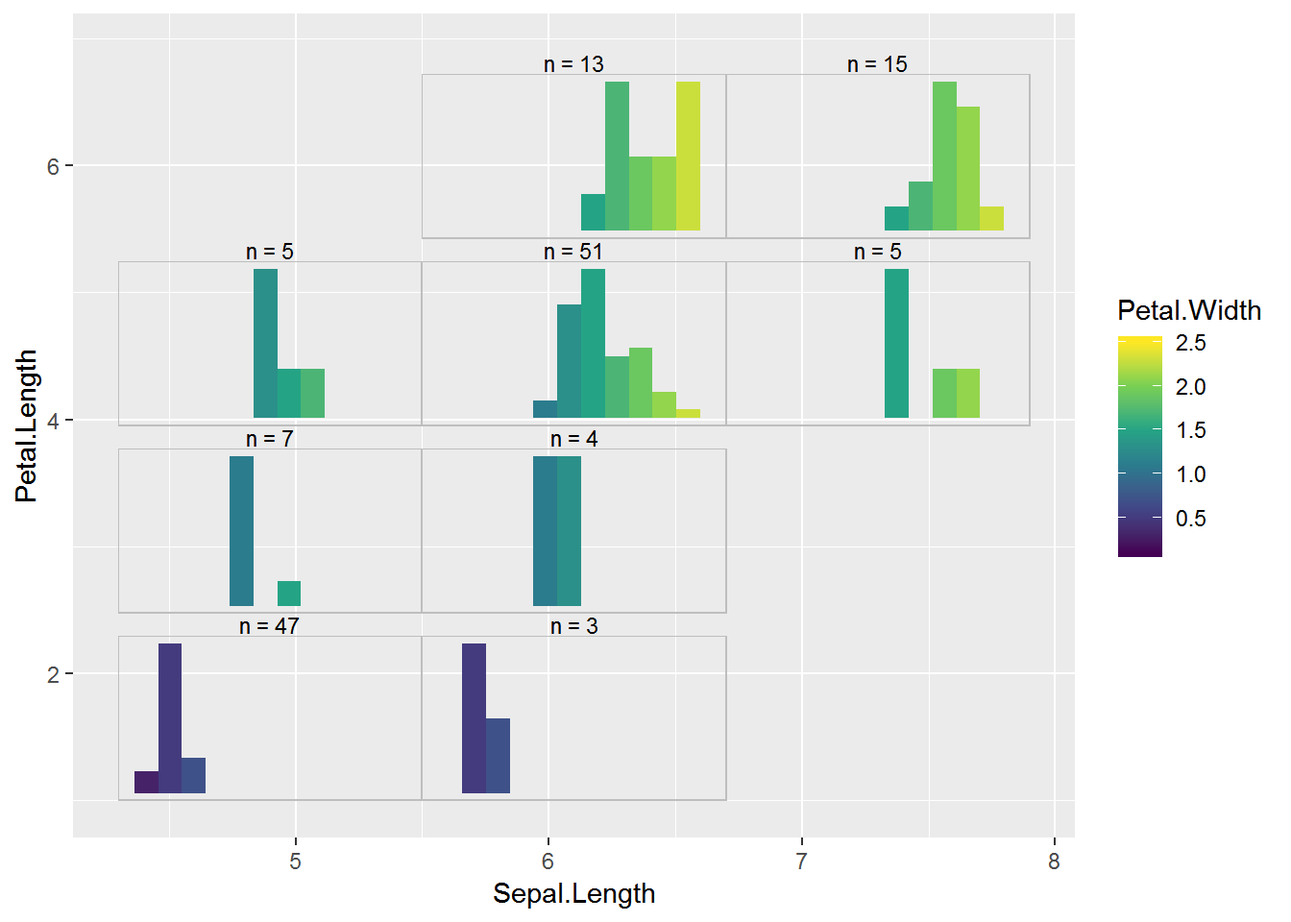
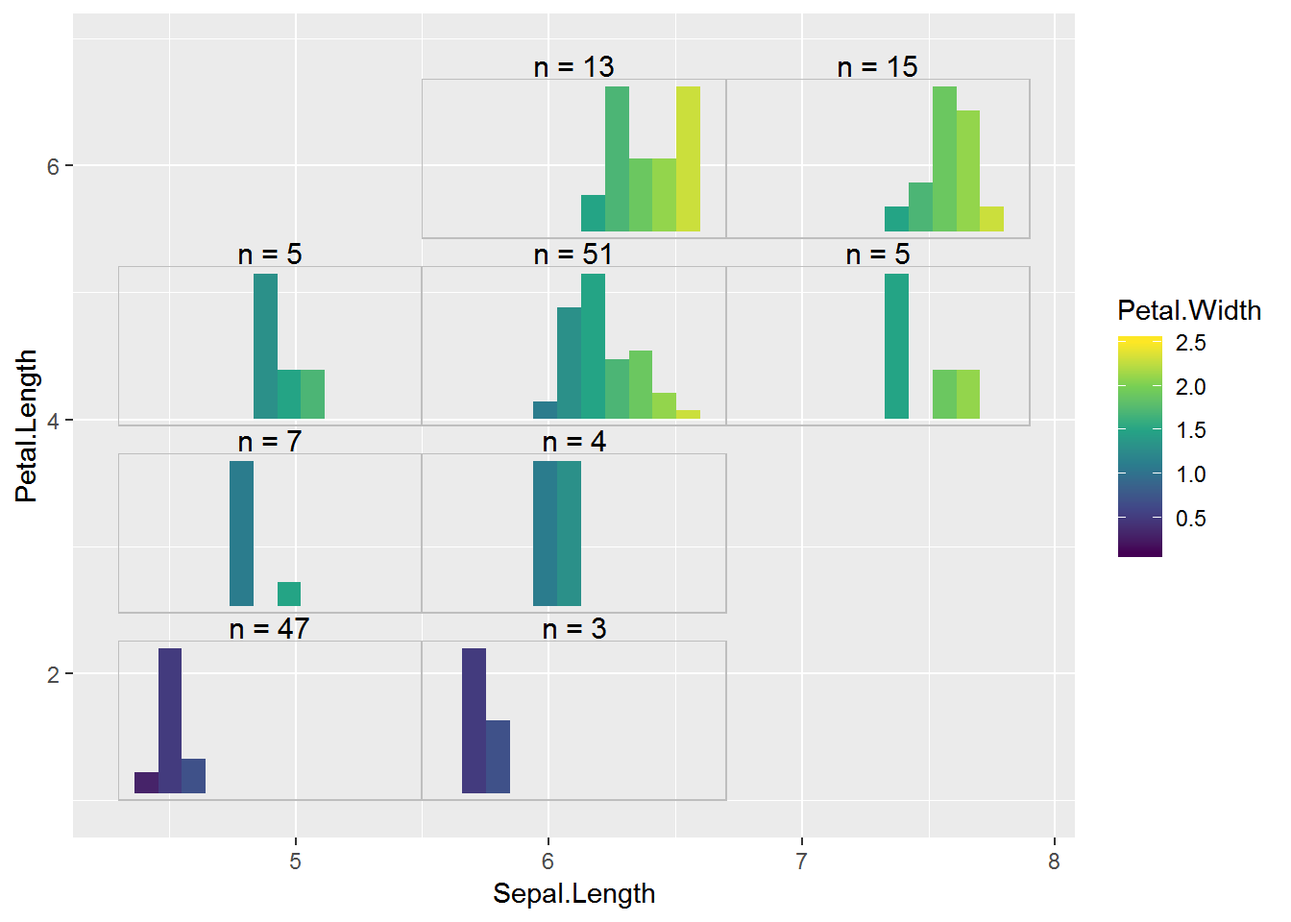
Second draft embedded plots

diff --git a/content/post/2019-04-22-embedding-subplots.html b/content/post/2019-04-22-embedding-subplots.html
@@ -9,20 +9,20 @@ tags:
   - ggplot2
   - purrr
 draft: TRUE
-description: "I was first exposed to the idea of embedding small subplots into a larger plot in package ggsubplot, which is no longer maintained.  Embedding subplots is still possible in ggplot2 via function annotation_custom(), and many subplots can be made and added to a plot via loops.  I demonstrate one approach to this here."
+description: "When I first learned about embedding many small subplots into a larger plot as a way to visualize large datasets it could be done in ggplot2 via package ggsubplot.  Embedding subplots is still possible with the annotation_custom() function.  Many subplots can be made and then added to a plot via loops.  I demonstrate one approach to do this."
 ---
 
 
 
-<p>This quarter I’m doing a small reading and conference discussion group with graduate students on data visualization, partially based on the two recent data visualization books written by <a href="https://kieranhealy.org/publications/dataviz/">Kieran Healy</a> and <a href="https://serialmentor.com/dataviz/">Claus Wilke</a>. The ultimate goal is to have each student work on a graphic with their own data. During discussions on what sort of plot to make, one student brought up the idea of embedded plots for visualizing complex data.</p>
-<p>I first saw embedded graphics in package <strong>ggsubplot</strong>. It turns out the student had seen <a href="https://blog.revolutionanalytics.com/2012/09/visualize-complex-data-with-subplots.html">an old post</a> about that package and about embedded graphics and was interested to try it on her fairly large dataset. However, <strong>ggsubplot</strong> is no longer maintained and doesn’t work with current versions of <strong>ggplot2</strong>.</p>
-<p>Below is an example of an embedded plot of the <code>diamonds</code> dataset from that blog post. You can see there are small subplots showing summarized data placed within the larger plot. This can be useful for large datasets and it can look pretty neat on maps.</p>
+<p>This quarter I’m doing a small reading and conference discussion group on data visualization with graduate students, partially based on the two recent data visualization books written by <a href="https://kieranhealy.org/publications/dataviz/">Kieran Healy</a> and <a href="https://serialmentor.com/dataviz/">Claus Wilke</a>. The ultimate goal is to have each student work on a graphic with their own data.</p>
+<p>During discussions on what sort of graphic each student should make, the idea of embedded plots for visualizing a large dataset that has a problem with overplotting came up. I first learned about embedded graphics from package <strong>ggsubplot</strong>. You can still see <a href="https://blog.revolutionanalytics.com/2012/09/visualize-complex-data-with-subplots.html">an old post</a> about that package and about embedded graphics in general. However, <strong>ggsubplot</strong> is no longer maintained and doesn’t work with current versions of <strong>ggplot2</strong>.</p>
+<p>Below is an example of an embedded plot of the <code>diamonds</code> dataset from that blog post. You can see there are small subplots showing summarized data placed within the larger plot. This can be useful to show patterns in for large datasets like <code>diamonds</code>. Embedded plots can also work well on maps.</p>
 <p><img src="https://revolution-computing.typepad.com/.a/6a010534b1db25970b0177448319ad970d-800wi" /><!-- --></p>
 <p>I poked around a bit, and found that <code>annotation_custom()</code> is the go-to function for embedding plots in a <strong>ggplot2</strong> graphic these days. Since embedded plots like the one above involve making and adding many subplots, generally we’ll need some sort of looping to be efficient. I found a couple of recent examples for how to tackle these plots on Stack Overflow <a href="https://stackoverflow.com/a/44125392/2461552">here</a> and <a href="https://stackoverflow.com/a/45417727/2461552">here</a>.</p>
-<p>I’m going to work through an example of embedding subplots using the same sort of approach outlined in those answers.</p>
+<p>I’m going to work through an example of embedding subplots using the same kind of approach outlined in those answers.</p>
 <div id="r-packages" class="section level1">
 <h1>R packages</h1>
-<p>First I’ll load the R packages I’m using today. All plotting is done via <strong>ggplot2</strong>, I do data manipulation with <strong>dplyr</strong> and <strong>tidyr</strong>, and <strong>purrr</strong> is for looping to make the subplots and then get them into separate <code>annotation_custom()</code> layers.</p>
+<p>First I’ll load the R packages I’m using today. All plotting is done via <strong>ggplot2</strong>, I do data manipulation with <strong>dplyr</strong> and <strong>tidyr</strong>, and <strong>purrr</strong> is both for looping to make the subplots and for getting the subplots into <code>annotation_custom()</code> layers.</p>
 <pre class="r"><code>library(ggplot2) # 3.1.1
 suppressPackageStartupMessages( library(dplyr) ) # 0.8.0.1
 library(tidyr) # 0.8.3
@@ -30,11 +30,11 @@ library(purrr) # 0.3.2</code></pre>
 </div>
 <div id="cutting-continuous-variables-into-evenly-spaced-categories" class="section level1">
 <h1>Cutting continuous variables into evenly-spaced categories</h1>
-<p>An additional complication that I didn’t see covered in the Stack Overflow answers was how to approach for cutting up the two continuous variables on the axis of the large plot into categories prior to making the subplots.</p>
-<p>That’s the first thing I wanted to grapple with. I played with various ways to get evenly sized subplots. While I thought it might be nice to have plots placed at “even” points on the axis, in the end I gave that up and decided to cut up the continuous variable into groups of even lengths.</p>
-<p>This is a job for <code>cut()</code>. Rather than using <code>cut()</code> directly I made a function built around <code>cut()</code>. The main reason for this is because I’m going to eventually need the minimum and maximum value of each group in order to place the subplots along the axes of the larger plot. This information can be pulled from the labels, but I didn’t like how <code>cut()</code> rounded the values.</p>
-<p>My function <code>cuteven()</code>, takes a continuous variable and returns a variable cut into <code>ngroups</code> groups. The labels of this categorized variable are the (unrounded) minimum and maximum value of the group, separated by commas.</p>
-<p>The <code>include.lowest</code> argument in <code>cut()</code> is to make sure the minimum value in the dataset is included in the first group.</p>
+<p>Binning the continuous variables on the axis of the larger plot to make the subplots is an additional complication that I didn’t see covered in those Stack Overflow answers. That’s the first thing I wanted to grapple with.</p>
+<p>I thought it made the most sense to have all the subplots be the same size and so wanted evenly sized <em>bins</em> or groups. The range of values for of each bin for a particular variable can be based on the total range of the variable and the desired number of groups.</p>
+<p>Binning into even-length groups is a job for <code>cut()</code>. Since I’m going to need the minimum and maximum value of each group to place the subplots along the axes of the larger plot, rather than using <code>cut()</code> directly I made a function built it. While information on the range encompassed by a group can be pulled from the default <code>cut()</code> bin labels, I didn’t like how <code>cut()</code> rounded those values.</p>
+<p>My function <code>cuteven()</code>, takes a continuous variable and returns a variable cut into <code>ngroups</code> bins. The labels of the resulting groups are the unrounded minimum and maximum value of each one, with the values separated by commas.</p>
+<p>I use <code>include.lowest = TRUE</code> in <code>cut()</code> is to make sure the minimum value in the dataset is included in the first group.</p>
 <pre class="r"><code>cuteven = function(variable, ngroups) {
      seq_all = seq(min(variable), max(variable), length.out = ngroups + 1)
      cut(variable,
@@ -42,7 +42,7 @@ library(purrr) # 0.3.2</code></pre>
          labels = paste(seq_all[-(ngroups + 1)], seq_all[-1], sep = &quot;,&quot;),
          include.lowest = TRUE)
 }</code></pre>
-<p>Let’s test the function by cutting <code>Sepal.Length</code> from the <code>iris</code> dataset into 3 groups.</p>
+<p>Let’s test the function by cutting <code>Sepal.Length</code> from the <code>iris</code> dataset into 3 groups. The new, categorical variable has three categories, labeled with the minimum and maximum values in each.</p>
 <pre class="r"><code>with(iris, cuteven(Sepal.Length, ngroups = 3) )</code></pre>
 <pre><code>#   [1] 4.3,5.5 4.3,5.5 4.3,5.5 4.3,5.5 4.3,5.5 4.3,5.5 4.3,5.5 4.3,5.5
 #   [9] 4.3,5.5 4.3,5.5 4.3,5.5 4.3,5.5 4.3,5.5 4.3,5.5 5.5,6.7 5.5,6.7
@@ -65,11 +65,11 @@ library(purrr) # 0.3.2</code></pre>
 # [145] 5.5,6.7 5.5,6.7 5.5,6.7 5.5,6.7 5.5,6.7 5.5,6.7
 # Levels: 4.3,5.5 5.5,6.7 6.7,7.9</code></pre>
 </div>
-<div id="categorizing-the-axis-labels" class="section level1">
-<h1>Categorizing the axis labels</h1>
-<p>While these embedded plots can be useful for large datasets, I’m going demonstrate the process with a relatively small dataset so I can focus on the concepts.</p>
-<p>I will embed subplots on a larger plot based on the <code>iris</code> data, showing <code>Sepal.Length</code> on the x axis and <code>Petal.Length</code> on the y axis. My first step is to categorize those variables. I’m going to make three groups for <code>Sepal.Length</code> and four groups for <code>Petal.Length</code>.</p>
-<p>I cut both variables within <code>mutate()</code> and add them to <code>iris</code>. I give them generic names that indicate which variable is <code>x</code> and which is <code>y</code>.</p>
+<div id="categorizing-the-axis-variables" class="section level1">
+<h1>Categorizing the axis variables</h1>
+<p>While these embedded plots can be useful for large datasets, I’m going demonstrate the process with a relatively small dataset.</p>
+<p>I will embed subplots on a larger plot based on the <code>iris</code> data, showing <code>Sepal.Length</code> on the x axis and <code>Petal.Length</code> on the y axis. My first step is to categorize those variables with <code>cuteven()</code>. I’m going to make three groups for <code>Sepal.Length</code> and four groups for <code>Petal.Length</code>.</p>
+<p>I cut both variables within <code>mutate()</code> and add them to <code>iris</code>. I give the new variables generic names that indicate which variable is <code>x</code> and which is <code>y</code>.</p>
 <pre class="r"><code>iris = mutate(iris,
                 group_x = cuteven(Sepal.Length, 3),
                 group_y = cuteven(Petal.Length, 4) )
@@ -87,9 +87,10 @@ glimpse(iris)</code></pre>
 </div>
 <div id="extracting-the-coordinates-for-each-subplot" class="section level1">
 <h1>Extracting the coordinates for each subplot</h1>
-<p>We’ll need the minimum and maximum value for group for each axis variable to place the subplot in the larger plot in <code>annotation_custom()</code>. Since the labels of the new variables contain this info separated by a comma, we can use <code>separate()</code> to extract this info into columns.</p>
-<p>Since I have two group variables, one for each axis, I end up using <code>separate()</code> twice. I again make the names of the new columns in <code>into</code> based on which axis the value refers to.</p>
-<p>Since these coordinates are for numeric axes I use <code>convert = TRUE</code> to convert the values to numbers from categories.</p>
+<p>We’ll need the minimum and maximum value per group for each axis variable in order to place the subplot in the larger plot with <code>annotation_custom()</code>. Since the labels of the new variables contain this info separated by a comma, we can use <code>separate()</code> to extract the coordinate information from the labels into separate columns.</p>
+<p>Since I have two group variables, one for each axis, I end up using <code>separate()</code> twice. I again make the names of the new columns in <code>into</code> based on which axis I’ll be plotting that variable on.</p>
+<p>Since these coordinates are for numeric axes I use <code>convert = TRUE</code> to convert the values from categorical to numerical.</p>
+<p>When this step is complete we’ll have coordinates to indicate where each corner of a subplot will be placed within the larger plot. Unique combinations of the four variables define each group we want to make a subplot for.</p>
 <pre class="r"><code>iris = iris %&gt;%
      separate(group_x, into = c(&quot;min_x&quot;, &quot;max_x&quot;), 
               sep = &quot;,&quot;, convert = TRUE) %&gt;%
@@ -111,9 +112,10 @@ glimpse(iris)</code></pre>
 </div>
 <div id="bar-plot-subplots" class="section level1">
 <h1>Bar plot subplots</h1>
-<p>Before I go any further I’m going to figure out what I want my subplots to look like. I’m going to start with subplots as bar plots to count up the number of each species.</p>
-<p>It is useful to make a function for making the plots. Before I do that, I always work out what I want the plot to look like on a single subset of the data. While you can’t see it here, this is an iterative process and I often have to come back and tweak things once I’ve made the plots and embedded them.</p>
-<p>I want all the plots to have the same x and y axes. Since the y axis is counts, I need to calculate the maximum number of species across each subplot x/y group for setting the y axis limits.</p>
+<p>Next I’m going to figure out what I want my subplots to look like. I’m going to start with bar plots to count up the number of each species in each group.</p>
+<p>Since I will be making many plots with the same look I’ll create a function for the task. I like to work out what I want the plot to look like on a single subset of the data before making the function While you can’t see it here, this is an iterative process. I often have to come back and tweak the plot once I’ve made test subplots and embedded them.</p>
+<p>In this case, I want all the plots to have the same x and y axes. Since the y axis is counts, I need to calculate the maximum number of species across groups so I can set the y axis limits.</p>
+<p>The maximum count is <code>47</code>, so that will be my upper axis limit. Bar plots always start at 0.</p>
 <pre class="r"><code>iris %&gt;%
      group_by(min_x, max_x, min_y, max_y, Species) %&gt;%
      count() %&gt;%
@@ -124,9 +126,10 @@ glimpse(iris)</code></pre>
 #   &lt;dbl&gt; &lt;dbl&gt; &lt;dbl&gt; &lt;dbl&gt; &lt;fct&gt;   &lt;int&gt;
 # 1   4.3   5.5     1  2.48 setosa     47</code></pre>
 <p>In case a species is missing from one of the subplot groups I’ll define the <code>limits</code> for the x axis in <code>scale_x_discrete()</code>. This forces each plot to have the same x axis breaks.</p>
-<p>I’ll be removing all axis labels, etc., via <code>theme_void()</code> so that the subplots fit nicely into the larger plot, but keep the outline around the plot.</p>
-<p>I use <code>fill</code> to color the bars by species and will add a legend to the final plot since there are no x axis labels on the subplot. I set explicit colors in <code>scale_fill_manual()</code> (colors taken <a href="http://colorspace.r-forge.r-project.org/articles/hcl_palettes.html#qualitative-palettes">from here</a>). I suppress the legend in the subplots, though.</p>
-<p>Here is my test plot.</p>
+<p>I’ll be removing all axis labels, etc., via <code>theme_void()</code> so that the subplots fit nicely into the larger plot. I will add an outline around the plot, though.</p>
+<p>I use <code>fill</code> to color the bars by species and will add a legend to the large plot since there are no x axis labels on the subplot. I suppress the legend in the subplots.</p>
+<p>I set explicit colors in <code>scale_fill_manual()</code> (colors taken <a href="http://colorspace.r-forge.r-project.org/articles/hcl_palettes.html#qualitative-palettes">from here</a>) so all the plots will have the same color scheme.</p>
+<p>Here is my test plot for one group. This particular group only has one species in it.</p>
 <pre class="r"><code>ggplot(data = filter(iris, max_x &lt;= 5.5, max_y &lt;= 2.475), 
        aes(x = Species, fill = Species) ) +
      geom_bar() +
@@ -140,7 +143,8 @@ glimpse(iris)</code></pre>
                                        fill = &quot;transparent&quot;) ) +
      ylim(0, 47)</code></pre>
 <p><img src="/post/2019-04-22-embedding-subplots_files/figure-html/unnamed-chunk-8-1.png" width="672" /></p>
-<p>Once I have the plot worked out I can make a function so I can loop through all the data subsets and make a plot for each one. In this case the function takes a dataset, since I’m hard-coding in the axis variables, etc.</p>
+<p>Once I have the plot worked out for one group I put the code into a function. Here I name the function <code>barfun</code>. In this case the function takes only a dataset, since I’m hard-coding in all the axis variables.</p>
+<p>This function will allow me to loop through all the data subsets and make a bar plot for each one.</p>
 <pre class="r"><code>barfun = function(data) {
      ggplot(data = data, 
             aes(x = Species, fill = Species) ) +
@@ -155,15 +159,16 @@ glimpse(iris)</code></pre>
                                             fill = &quot;transparent&quot;) ) +
           ylim(0, 47) 
 }</code></pre>
-<p>Does this make the same plot I made manually? Yep. 👍</p>
+<p>Does this function make the same plot I made manually? Yep. 👍</p>
 <pre class="r"><code>barfun(data = filter(iris, max_x &lt;= 5.5, max_y &lt;= 2.475) )</code></pre>
 <p><img src="/post/2019-04-22-embedding-subplots_files/figure-html/unnamed-chunk-10-1.png" width="672" /></p>
 </div>
 <div id="make-the-subplots" class="section level1">
 <h1>Make the subplots</h1>
 <p>Now I’m ready to make the subplots! 😆.</p>
-<p>This involves looping through each subset of data and making the plot. Since I’m going to need those coordinates for subplot placement later I decided that the most straightforward way to do this is to group by the unique combinations of coordinates and then <em>nest</em> the dataset. When nesting, the dataset to be plotted is put in a column called <code>data</code>.</p>
-<p>I loop through each dataset in <code>data</code> with <code>map()</code> in <code>mutate()</code> and make a new list column of plots called <code>subplots</code>.</p>
+<p>I’ll loop through each subset of data and plot it with my function.</p>
+<p>Since I’m going to need those coordinates for subplot placement later I decided that the most straightforward way to do this is to group by the unique combinations of coordinates and then <em>nest</em> the dataset. When nesting, the dataset that contains the data to be plotted is placed in a column called <code>data</code>.</p>
+<p>I loop through each dataset in <code>data</code> with <code>map()</code> within <code>mutate()</code>. The new column containing the plots is named <code>subplots</code>.</p>
 <pre class="r"><code>allplots = iris %&gt;%
      group_by_at( vars( matches(&quot;min|max&quot;) ) ) %&gt;%
      group_nest() %&gt;%
@@ -182,26 +187,26 @@ allplots</code></pre>
 # 7   5.5   6.7  5.42  6.9  &lt;tibble [13 x 5]&gt; &lt;S3: gg&gt;
 # 8   6.7   7.9  3.95  5.42 &lt;tibble [5 x 5]&gt;  &lt;S3: gg&gt;
 # 9   6.7   7.9  5.42  6.9  &lt;tibble [15 x 5]&gt; &lt;S3: gg&gt;</code></pre>
-<p>Here’s a couple of the plots. The first one should look fairly familiar</p>
+<p>Here’s a couple of the plots. The first one should look fairly familiar.</p>
 <pre class="r"><code>allplots$subplots[[1]]</code></pre>
 <p><img src="/post/2019-04-22-embedding-subplots_files/figure-html/unnamed-chunk-12-1.png" width="672" /></p>
 <pre class="r"><code>allplots$subplots[[6]]</code></pre>
 <p><img src="/post/2019-04-22-embedding-subplots_files/figure-html/unnamed-chunk-12-2.png" width="672" /></p>
 </div>
-<div id="putting-subplots-in-annotation_custom" class="section level1">
-<h1>Putting subplots in annotation_custom()</h1>
-<p>The next step is to make each of these plots a <em>grob</em> (graphical object) and pass it into <code>annotation_custom()</code> for adding to the larger plot. It is in <code>annotation_custom()</code> where we finally need those coordinates we made.</p>
-<p>I’m going to use the <code>allplots</code> dataset. I need to loop through each row of the dataset to put the subplots into <code>annotation_custom()</code> and using the coordinates for the <code>xmin</code>, <code>xmax</code>, <code>ymin</code>, <code>ymax</code> arguments so the subplots get placed correctly. Working <em>row-wise</em> like this tells me I probably want <code>pmap()</code> for the looping.</p>
-<p>I’ll be working with five columns simultaneously for this step so I decided to make a function prior to looping.</p>
-<p>Notice I put my arguments of the function in the same order as they appear in the dataset and <em>they have the same names as the columns of the dataset</em>. I did this on purpose for ease of working with <code>pmap()</code>.</p>
+<div id="putting-subplots-into-annotation_custom" class="section level1">
+<h1>Putting subplots into annotation_custom()</h1>
+<p>Now I need to make each of these plots a <em>grob</em> (graphical object) and pass it into <code>annotation_custom()</code> for adding to the larger plot. The coordinate columns will be passed to the <code>xmin</code>, <code>xmax</code>, <code>ymin</code>, <code>ymax</code> arguments in <code>annotation_custom()</code>. This is how we indicate where each subplot should be placed in the larger plot.</p>
+<p>I want to use <code>annotation_custom()</code> with each subplot and coordinates from each row of the dataset. Looping <em>row-wise</em> through a dataset usually indicates that I’ll want to use the <code>pmap()</code> function.</p>
+<p>Since I’ll be working with five columns simultaneously in this step I decided to make a function prior to looping.</p>
+<p>Notice I put my arguments of the function in the same order as they appear in the dataset and <em>they have the same names as the columns of the dataset</em>. I did this on purpose for ease of working with <code>pmap()</code>. I name this function <code>grobfun</code>.</p>
 <pre class="r"><code>grobfun = function(min_x, max_x, min_y, max_y, subplots) {
      annotation_custom(ggplotGrob(subplots),
                        xmin = min_x, ymin = min_y,
                        xmax = max_x, ymax = max_y)
 }</code></pre>
-<p>I no longer need the <code>data</code> column, so I remove it to end up with only the columns I need for the <code>grobfun()</code> function I made.</p>
+<p>I no longer need the <code>data</code> column, so I remove it to end up with only the columns I need for the <code>grobfun()</code> function I made. This isn’t strictly necessary, but makes working with <code>pmap()</code> easier.</p>
 <p>The dot, <code>.</code>, indicates I’m passing the entire dataset to <code>pmap()</code> and so looping through it row-wise.</p>
-<p>I find this takes a little time to run.</p>
+<p>I find this can take a little time to run when doing many subplots.</p>
 <pre class="r"><code>( allgrobs = allplots %&gt;%
      select(-data) %&gt;%
      mutate(grobs = pmap(., grobfun) ) )</code></pre>
@@ -220,8 +225,8 @@ allplots</code></pre>
 </div>
 <div id="making-the-large-plot" class="section level1">
 <h1>Making the large plot</h1>
-<p>I haven’t actually made the plot I’m going to embed plots into. This is a blank plot with <code>Sepal.Length</code> on the x axis and <code>Petal.Length</code> on the y axis.</p>
-<p>I want to have a legend on this plot, though, since I removed the legends from the subplots. Those Stack Overflow posts show a trick with <code>geom_col()</code> to do this (thank goodness, since I would have never figured out on my own 😛).</p>
+<p>I haven’t actually made the plot I’m going to embed plots into. This will be a blank plot with <code>Sepal.Length</code> on the x axis and <code>Petal.Length</code> on the y axis that will have an overall legend for <code>fill</code>.</p>
+<p>Adding on the overall legend to a blank plot involves a little trick with <code>geom_col()</code>, which was demonstrated in those Stack Overflow posts. (Thank goodness for SO, since I would have never figured it out otherwise 😜.)</p>
 <pre class="r"><code>( largeplot = ggplot(iris, aes(x = Sepal.Length, y = Petal.Length, fill = Species) ) +
      geom_blank() +
      geom_col( aes(Inf, Inf) ) +
@@ -233,27 +238,26 @@ allplots</code></pre>
 </div>
 <div id="embedding-the-subplots" class="section level1">
 <h1>Embedding the subplots</h1>
-<p>Last step! We add the list of subplots in <code>annotation_custom()</code> to the big plot, which are then added individually to the large plot. There was a little extra space on the y axis that I removed by setting the axis limits.</p>
+<p>Last step! We can now add the list of subplots in <code>annotation_custom()</code> to the larger plot. 🎉 There was a little extra space on the y axis that I removed by setting the axis limits.</p>
 <p>I think this looks nice with evenly spaced subplots but there may be times unevenly spaced subplots is useful. In that case you could cut the variables into uneven groups.</p>
 <pre class="r"><code>largeplot +
      allgrobs$grobs +
      ylim(1, NA)</code></pre>
 <pre><code># Warning: Removed 150 rows containing missing values (geom_col).</code></pre>
 <p><img src="/post/2019-04-22-embedding-subplots_files/figure-html/unnamed-chunk-16-1.png" width="672" /></p>
-<p>After polishing it up a bit as desired, the final plot can be saved with <code>ggsave()</code>.</p>
+<p>After polishing this plot up a bit as desired, the final plot can be saved with <code>ggsave()</code>.</p>
 </div>
 <div id="continuous-distribution-subplots" class="section level1">
 <h1>Continuous distribution subplots</h1>
-<p>I’ve seen quite a few examples showing bar plot or pie chart subplots to show the distribution of some categorical variable across the axis variables. But there’s no reason I can see that we can’t show the distribution of a third continuous variable.</p>
-<p>I found a lot of little details that took some work for “contininuous distribuiton subplots” but in the end I thought things worked out OK.</p>
+<p>I’ve seen quite a few examples of embedded plots with bar plot or pie chart subplots to show patterns in the distribution of some categorical variable across the axis variables. But there’s no reason we can’t show the distribution of a third continuous variable.</p>
+<p>I found a lot of little details that took some work for “continuous distribution subplots”, which I go through below.</p>
 <p>I’ll make a histogram of the variable <code>Petal.Width</code> for the same subplot groups I used above.</p>
-<p>I’ll want the x axis to encompass the entire range of <code>Petal.Width</code> in each plot, so let’s check that range. These will be x axis limits (with extra added to make sure all the bars fit).</p>
+<p>I’ll want the x axis to encompass the entire range of <code>Petal.Width</code> in each plot, so let’s check that range. These will be x axis limits (with some extra added to make sure all the histogram bars fit).</p>
 <pre class="r"><code>range(iris$Petal.Width)</code></pre>
 <pre><code># [1] 0.1 2.5</code></pre>
-<p>The y axis is a little trickier. One option is to show the bars as proportions of the maximum count with <code>ncount</code> instead of a raw count.</p>
-<p>Since the height of bars is a proportion of maximum instead of a count I decided to add the sample size per group to the plot as text. I ended up putting this in a facet strip rather than within the plot.</p>
+<p>I found the y axis to be a little trickier. I decided to show the bars as proportions of the maximum count with <code>ncount</code> instead of as a raw count. Since the height of bars is then a proportion of maximum instead of a count I added the sample size per group to the plot as text. I ended up putting this in a facet strip rather than within the plot. I went back and forth a bunch and am still not sure the final result is exactly what I want.</p>
 <p>I’ll base the color of the bars on <code>Petal.Width</code>, which can be done with <code>fill = stat(x)</code> to refer to the bins calculated by <code>geom_histogram()</code>.</p>
-<p>I’ll also need to set the <code>binwidth</code> to make the histogram bars the same width for each plot. I arbitrarily chose <code>0.25</code>. This is also what I used to pad the x axis limits to make sure all the bars show.</p>
+<p>I’ll also need to set the <code>binwidth</code> to make the histogram bars the same width for each plot. I arbitrarily chose <code>0.25</code>. This is also what I used to pad the x axis limits to make sure all the bars show in every plot.</p>
 <p>Here is my example plot for the first group. As far as I can tell the warning message is spurious since all three bars that should be there are there.</p>
 <pre class="r"><code>ggplot(data = filter(iris, max_x &lt;= 5.5, max_y &lt;= 2.475),
        aes(x = Petal.Width, y = stat(ncount), fill = stat(x) ) ) +
@@ -267,12 +271,12 @@ allplots</code></pre>
                                        fill = &quot;transparent&quot;) )</code></pre>
 <pre><code># Warning: Removed 2 rows containing missing values (geom_bar).</code></pre>
 <p><img src="/post/2019-04-22-embedding-subplots_files/figure-html/unnamed-chunk-18-1.png" width="672" /></p>
-<p>Here’s the function to make these histograms.</p>
+<p>And here’s the function to make histograms for each subplot dataset, which I name <code>histfun</code>.</p>
 <pre class="r"><code>histfun = function(data) {
      ggplot(data = data,
             aes(x = Petal.Width, y = stat(ncount), fill = stat(x) ) ) +
           geom_histogram(binwidth = .25) +
-          theme_void() +
+          theme_void(base_size = 14) +
           scale_x_continuous(limits = c(0.1 - .25, 2.5 + .25) ) +
           scale_fill_continuous(type = &quot;viridis&quot;,
                                 guide  = &quot;none&quot;) +
@@ -283,7 +287,7 @@ allplots</code></pre>
 </div>
 <div id="get-the-subplots-ready-to-plot" class="section level1">
 <h1>Get the subplots ready to plot</h1>
-<p>This time I’ll make the subplots and then put them into <code>annotation_custom()</code> in one pipe chain.</p>
+<p>This time I’ll make the subplots with <code>histfun</code> and then put them into <code>annotation_custom()</code> with <code>grobfun</code> in one pipe chain.</p>
 <pre class="r"><code>allgrobs_hist = iris %&gt;%
      group_by_at( vars( matches(&quot;min|max&quot;) ) ) %&gt;%
      group_nest() %&gt;%
